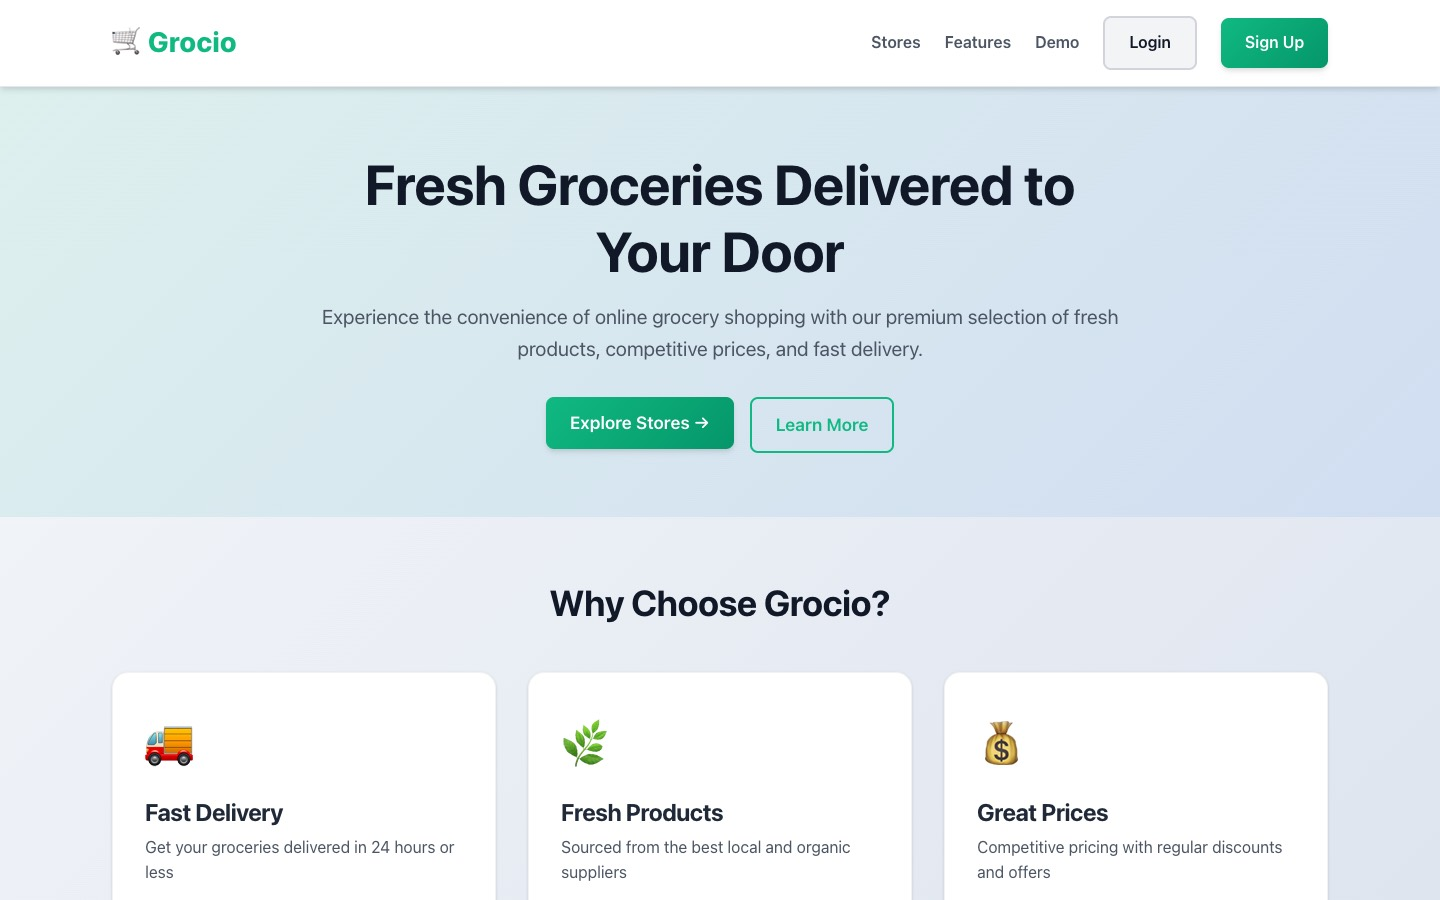
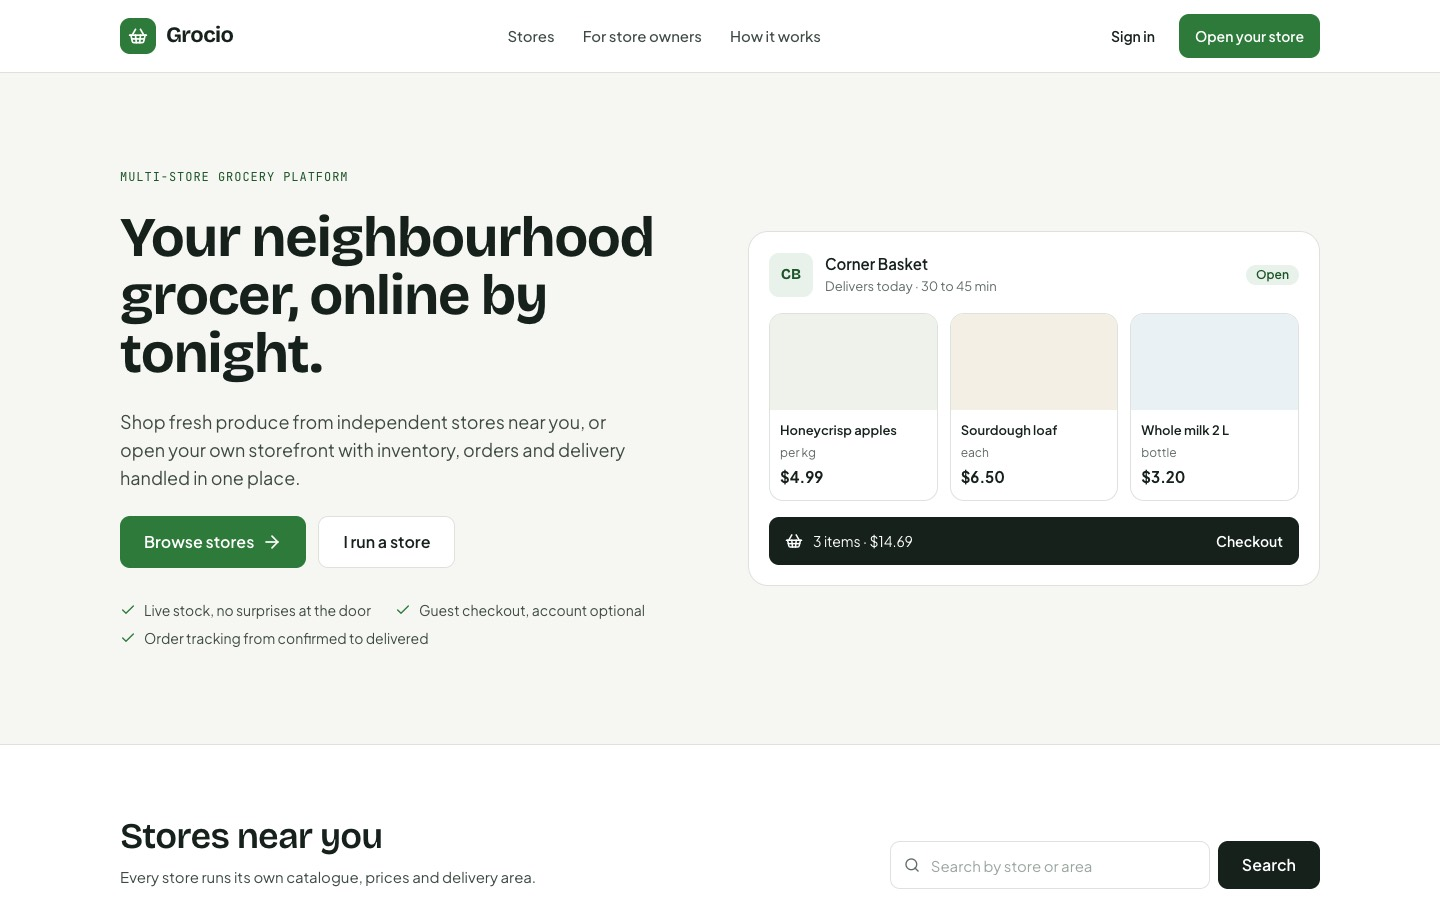
update Grocio live URL and preview screenshot

diff --git a/app/page.tsx b/app/page.tsx
@@ -116,7 +116,7 @@ const caseStudies: CaseStudy[] = [
       'A grocery delivery platform with role-based access for vendors, customers, and admins — Stripe payments, order flows, and tenant isolation across a shared Next.js + Node.js codebase.',
     outcome: 'Multi-tenant architecture with three distinct role experiences, live today.',
     tech: ['Next.js', 'Node.js', 'MongoDB', 'Stripe'],
-    links: [{ label: 'Live demo', href: 'https://grocio-app-frontend.netlify.app/' }],
+    links: [{ label: 'Live demo', href: 'https://grocio-web.vercel.app' }],
     image: '/projects/grocio.jpg',
     panes: (
       <>
